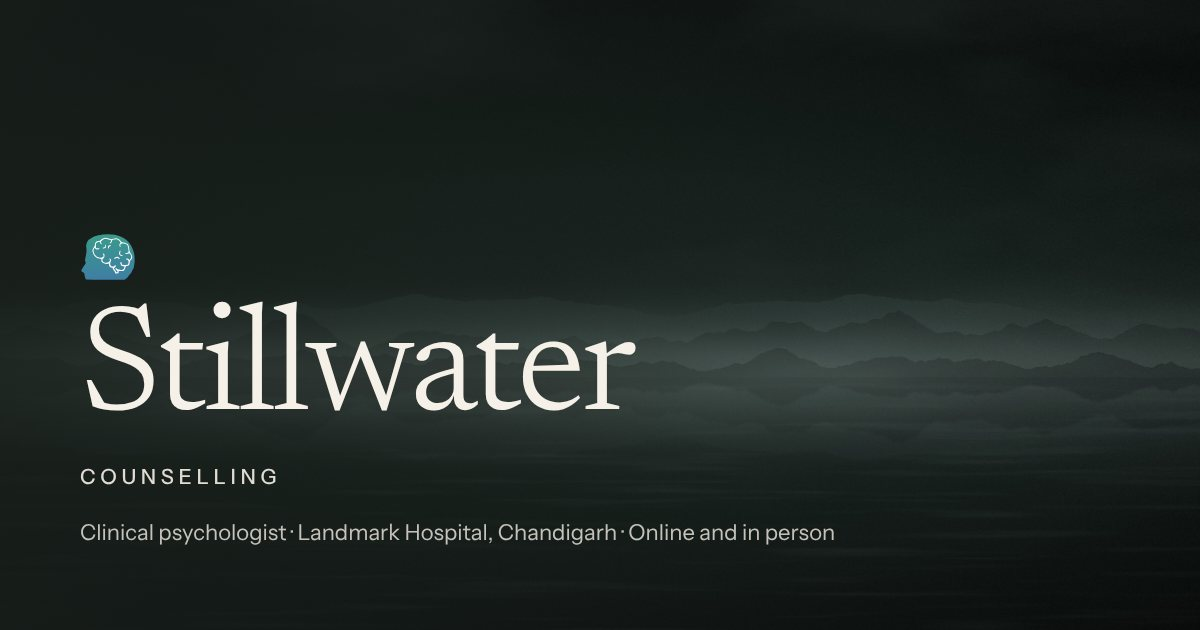
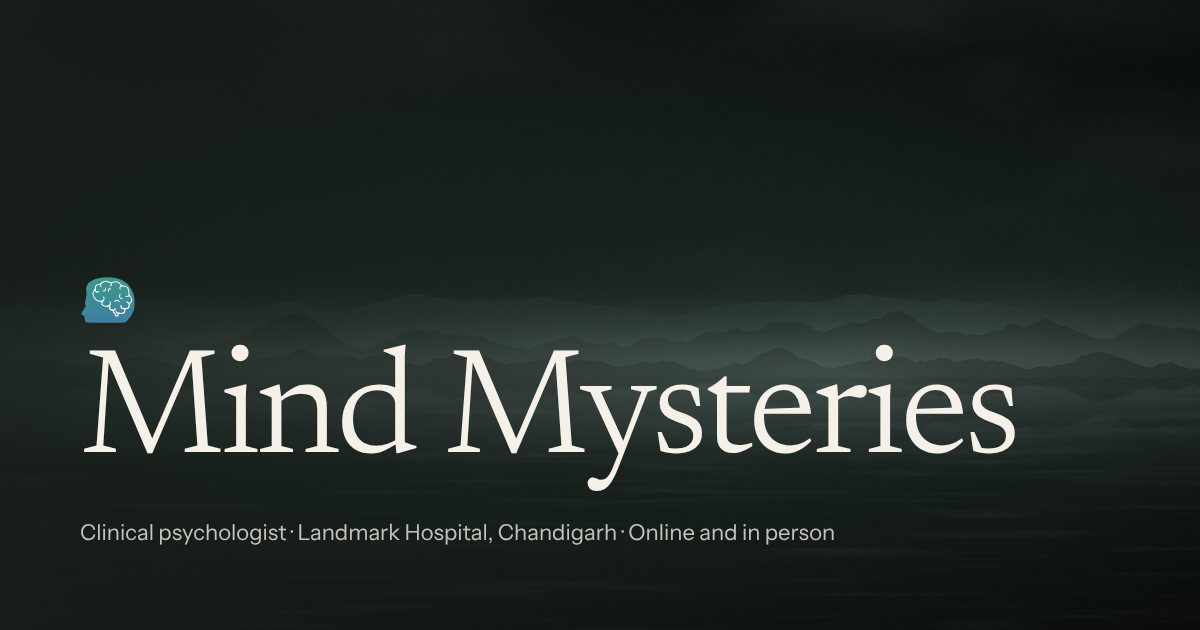
Rename site to Mind Mysteries

Changed region(s): [[0.0617, 0.3619, 0.8633, 0.7841], [0.7092, 0.5429, 0.74, 0.573]]

diff --git a/app/sections/Hero.tsx b/app/sections/Hero.tsx
@@ -1,10 +1,13 @@
-import { useRef } from "react";
+import { Fragment, useRef } from "react";
 import { ChatIcon } from "~/components/Icons";
 import { HeroPicture, Picture } from "~/components/Picture";
 import { contact, hero, practice, ui } from "~/content/site";
 import { useHeroMotion } from "~/motion/sections/hero";
 
-const chars = Array.from(practice.wordmark);
+// Each word is its own mask, so a two-line wordmark (phones) still rises
+// letter by letter from below its own line. --i runs across all letters.
+let letter = 0;
+const words = practice.wordmark.split(" ").map((w) => Array.from(w).map((c) => ({ c, i: letter++ })));
 
 export function Hero() {
   const ref = useRef<HTMLElement>(null);
@@ -59,10 +62,17 @@ export function Hero() {
 
         <h1 id="hero-title" className="hero__wordmark">
           <span className="hero__mask" aria-hidden="true">
-            {chars.map((c, i) => (
-              <span key={i} className="hero__char" style={{ "--i": i } as React.CSSProperties}>
-                {c}
-              </span>
+            {words.map((word, w) => (
+              <Fragment key={w}>
+                {w > 0 && " "}
+                <span className="hero__word">
+                  {word.map(({ c, i }) => (
+                    <span key={i} className="hero__char" style={{ "--i": i } as React.CSSProperties}>
+                      {c}
+                    </span>
+                  ))}
+                </span>
+              </Fragment>
             ))}
           </span>
           <span className="sr-only">{practice.name}</span>

diff --git a/app/content/site.ts b/app/content/site.ts
@@ -11,8 +11,8 @@ const PHONE_DIGITS = "919463880582";
 const GOOGLE_PROFILE = "https://share.google/vqAyCZi9v7Z0cPVcf";
 
 export const practice = {
-  name: "Stillwater Counselling",
-  wordmark: "Stillwater",
+  name: "Mind Mysteries",
+  wordmark: "Mind Mysteries",
   tagline: "Clinical psychologist, Chandigarh",
   city: "Chandigarh",
   availability: "Accepting new clients, online and in person",
@@ -244,11 +244,11 @@ export const privacy = {
 };
 
 export const seo = {
-  title: "Stillwater Counselling | Clinical psychologist, Chandigarh",
+  title: "Mind Mysteries | Clinical psychologist, Chandigarh",
   description:
     "RCI-licensed Clinical Psychologist, Landmark Hospital, Chandigarh. Online and in-person therapy for teenagers, adults and couples.",
   // Set this to the final domain before launch (used for canonical and OG URLs).
-  siteUrl: "https://stillwater-counselling.vercel.app",
+  siteUrl: "https://mind-mysteries.vercel.app",
 };
 
 // Interface labels (not appendix copy). Listed in the PRD for approval.
@@ -275,7 +275,7 @@ export const ui = {
   home: "Home",
   backHome: "Back to home",
   opensNewTab: "(opens in a new tab)",
-  copyright: "© 2026 Stillwater Counselling",
+  copyright: "© 2026 Mind Mysteries",
   composer: {
     name: "Your name *",
     phone: "Phone or WhatsApp (optional)",

diff --git a/app/styles/tokens.css b/app/styles/tokens.css
@@ -2,7 +2,7 @@
    dark sections, sage for lines and fills, clay as the one warm accent, warm
    cream and sand for the light sections. Every text pair meets WCAG AA.
 
-   To go back to the original Stillwater greens, replace the colour values
+   To go back to the original greens, replace the colour values
    below with: lake #3d6e68, deep #2e5651, deep-hover #3d6e68, tint #e0ece9,
    mist #f2f5f4, ink #22302d, soft #55625f, cream #f5f1e8, sand #ece5d8,
    night #141d1b, night-2 #1d2826, night-soft #a3b1ac, dawn #d8a873,
@@ -32,7 +32,7 @@
   /* Type */
   --font-display: "Newsreader Variable", "Newsreader Fallback", "Iowan Old Style", Georgia, serif;
   --font-body: "Instrument Sans Variable", "Instrument Sans Fallback", system-ui, -apple-system, "Segoe UI", sans-serif;
-  --fs-wordmark: clamp(4.5rem, 17vw, 16rem);
+  --fs-wordmark: clamp(3.5rem, 20vw, 16rem); /* phones: two lines, "Mysteries" ≈4.05em */
   --fs-xl: clamp(3rem, 8vw, 7.5rem);
   --fs-l: clamp(2.25rem, 4.5vw, 4rem);
   --fs-m: clamp(1.5rem, 2.2vw, 2rem);
@@ -78,6 +78,8 @@
   :root {
     --gutter: 32px;
     --rise: 24px;
+    /* Sized so "Mind Mysteries" fits on one line (≈6.4em wide). */
+    --fs-wordmark: clamp(4.5rem, 13.4vw, 12.75rem);
   }
 }
 

diff --git a/app/components/Nav.tsx b/app/components/Nav.tsx
@@ -6,6 +6,9 @@ import { BookButton } from "./BookingNotice";
 import { ChatIcon, CloseIcon, MailIcon, MenuIcon } from "./Icons";
 import { Modal } from "./Modal";
 
+// Any part of the name after the wordmark (hidden on small phones).
+const brandRest = practice.name.replace(practice.wordmark, "").trim();
+
 /** Same-page anchors scroll smoothly (through Lenis on desktop) and move focus. */
 export function useAnchorClick() {
   const { pathname } = useLocation();
@@ -73,9 +76,9 @@ export function Nav() {
         <div className="nav__inner container">
           <a className="nav__brand" href="/" onClick={goHome}>
             <img src="/logo.svg" alt="" width="28" height="24" className="nav__logo" />
-            <span>
+            <span className="nav__brand-name">
               {practice.wordmark}
-              <span className="nav__brand-rest"> {practice.name.replace(practice.wordmark, "").trim()}</span>
+              {brandRest && <span className="nav__brand-rest"> {brandRest}</span>}
             </span>
             {/* Spoken name = the visible text, then where it goes. */}
             <span className="sr-only">, {ui.home}</span>

diff --git a/app/content/changes.ts b/app/content/changes.ts
@@ -44,7 +44,8 @@ export const approvedChanges: { text: string; reason: string }[] = [
     text: "If you have a question about privacy, please send a WhatsApp message using the details on the Contact page.",
     reason: "Change 5: privacy rewrite (adapted from the account-deletion line)",
   },
-  { text: "Stillwater Counselling | Clinical psychologist, Chandigarh", reason: "SEO title: practice name + tagline" },
+  { text: "Mind Mysteries", reason: "Change 8: practice renamed from Stillwater Counselling (owner's instruction, 2 Nov 2026)" },
+  { text: "Mind Mysteries | Clinical psychologist, Chandigarh", reason: "SEO title: practice name + tagline" },
   {
     text: "RCI-licensed Clinical Psychologist, Landmark Hospital, Chandigarh. Online and in-person therapy for teenagers, adults and couples.",
     reason: "SEO description: hero kicker + specialties line",

diff --git a/app/styles/sections.css b/app/styles/sections.css
@@ -184,13 +184,25 @@
   font-size: var(--fs-wordmark);
   line-height: 0.86;
   letter-spacing: -0.035em;
-  white-space: nowrap;
 }
 
 .hero__mask {
   display: block;
+}
+
+@media (min-width: 768px) {
+  .hero__wordmark {
+    white-space: nowrap;
+  }
+}
+
+/* One mask per word: the letters rise from below their own line. */
+.hero__word {
+  display: inline-block;
   overflow: hidden;
+  white-space: nowrap;
   padding: 0.06em 0.04em 0.08em;
+  vertical-align: top;
 }
 
 .hero__char {

diff --git a/app/styles/chrome.css b/app/styles/chrome.css
@@ -111,6 +111,22 @@
   .nav__brand-rest {
     display: none;
   }
+  /* Small phones: the name stacks on two lines so it clears the buttons. */
+  .nav__brand {
+    gap: 8px;
+    font-size: 1rem;
+    line-height: 1.02;
+  }
+  .nav__brand-name {
+    width: min-content;
+    white-space: normal;
+  }
+}
+
+@media (max-width: 359px) {
+  .nav__logo {
+    display: none;
+  }
 }
 
 @media (max-width: 380px) {

diff --git a/README.md b/README.md
@@ -1,6 +1,6 @@
-# Stillwater Counselling — showcase website
+# Mind Mysteries — showcase website
 
-A calm, mobile-first website for Stillwater Counselling, built with **React + Node**
+A calm, mobile-first website for Mind Mysteries, built with **React + Node**
 (React 19, React Router 8 in framework mode, Vite, TypeScript). Node is used to
 build the site; the result is plain static files, so it can be hosted anywhere.
 
@@ -67,7 +67,7 @@ To change wording, edit `appendix.md` first, then the matching file in
 The site uses the "Sage & clay" palette: deep moss for the dark sections,
 sage for lines and fills, clay for buttons and accents, and warm cream and
 sand for the light sections. All colours live in `app/styles/tokens.css`. The
-original Stillwater greens are listed in a comment at the top of that file, so
+original greens are listed in a comment at the top of that file, so
 switching back means pasting those values in.
 
 ## Motion
@@ -122,7 +122,7 @@ python3 scripts/subset-fonts.py   # rebuilds the trimmed fonts in app/fonts
    - The "Mayo Clinic" reading link on Couples therapy points to `mymlc.com`,
      not `mayoclinic.org`. It is kept exactly as given in the appendix.
    - The Instagram handle (`aneek_mindcareclinic`) uses a different name from
-     Stillwater Counselling.
+     Mind Mysteries.
 
 ## How it was built (phases)
 
